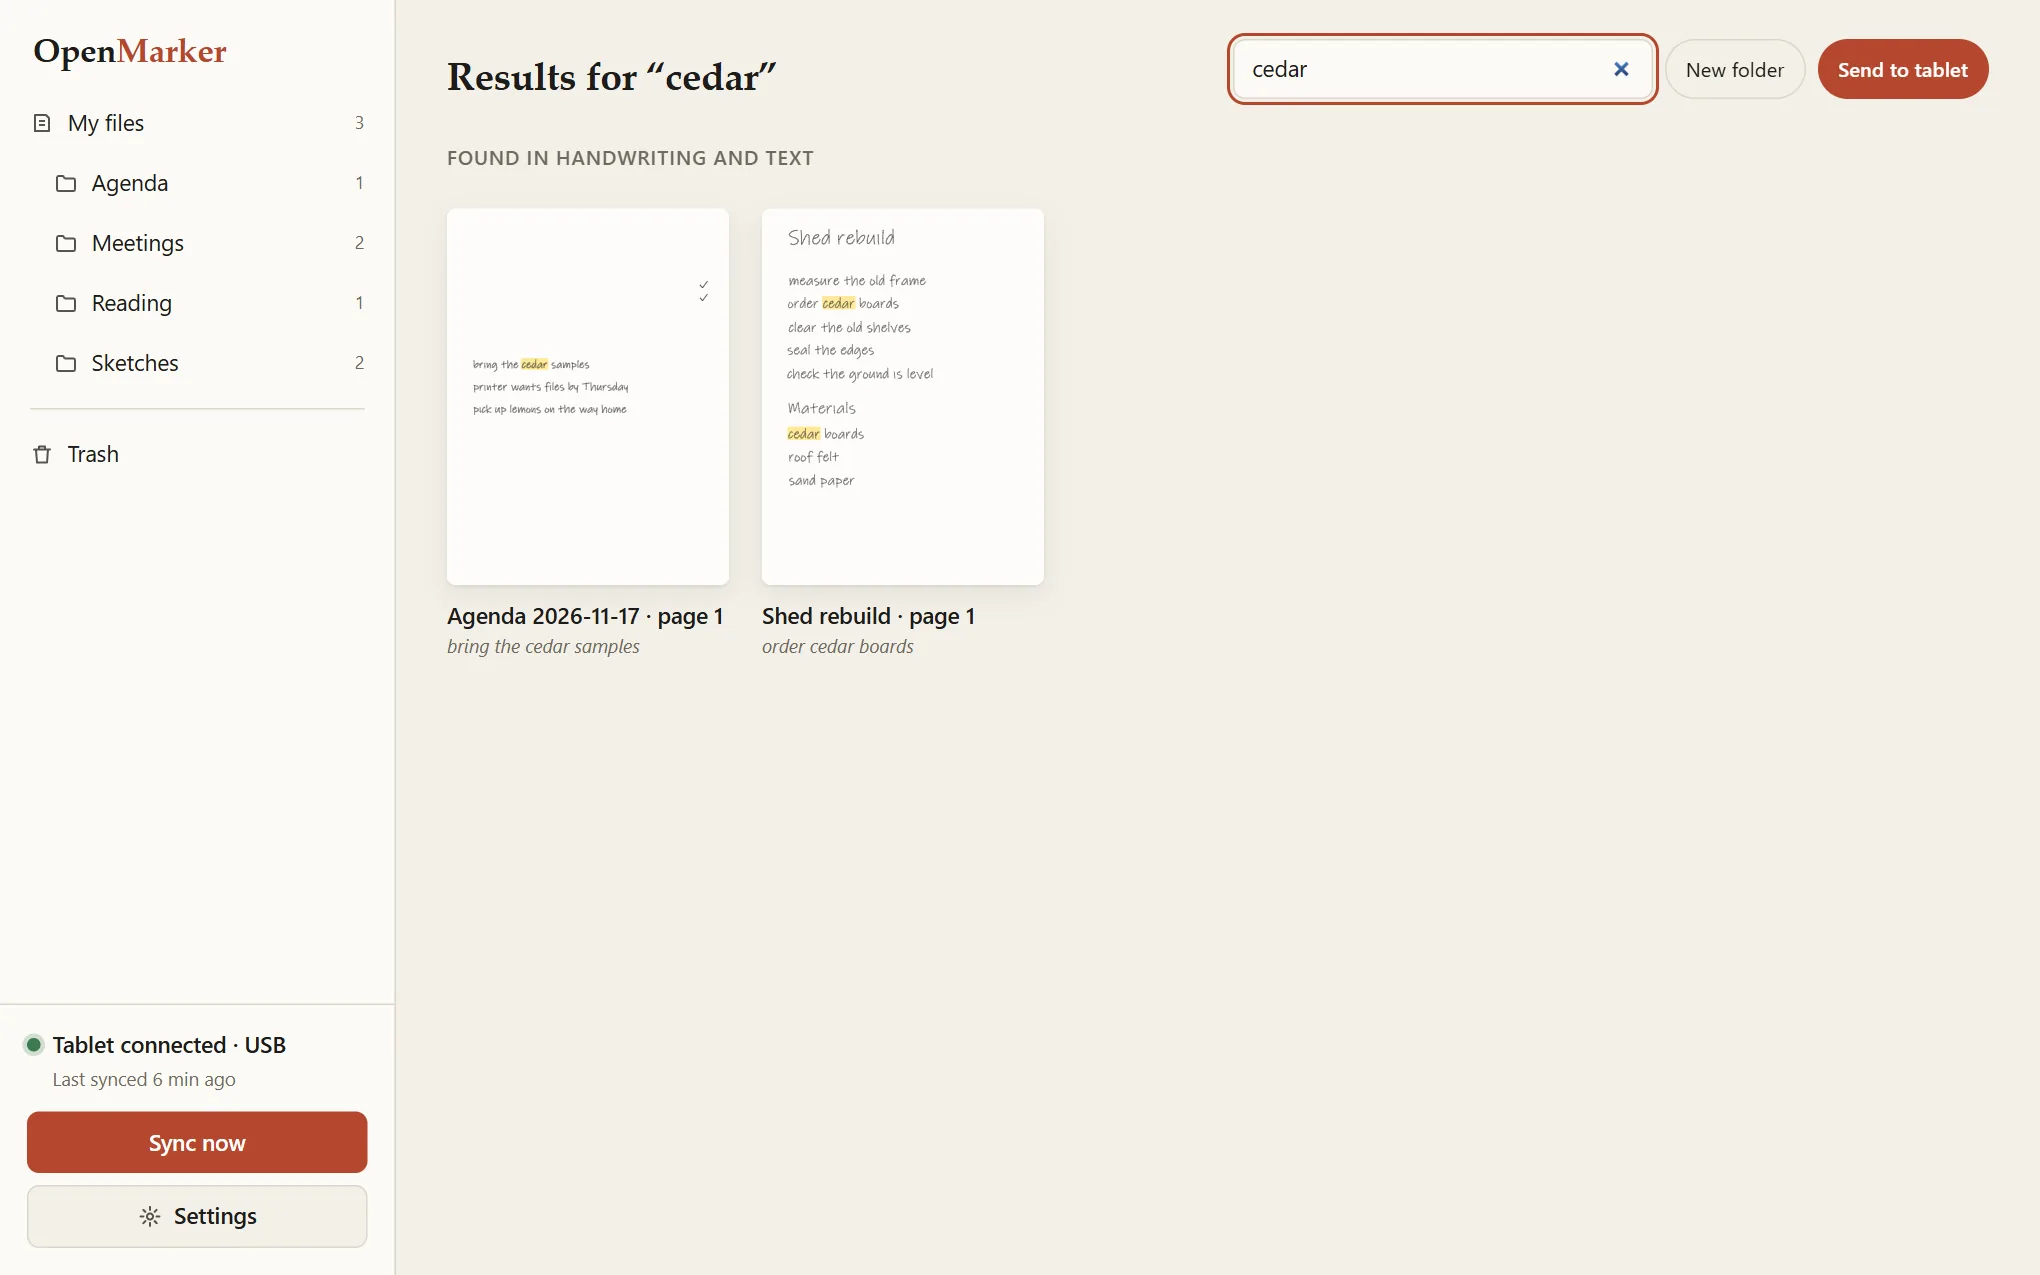
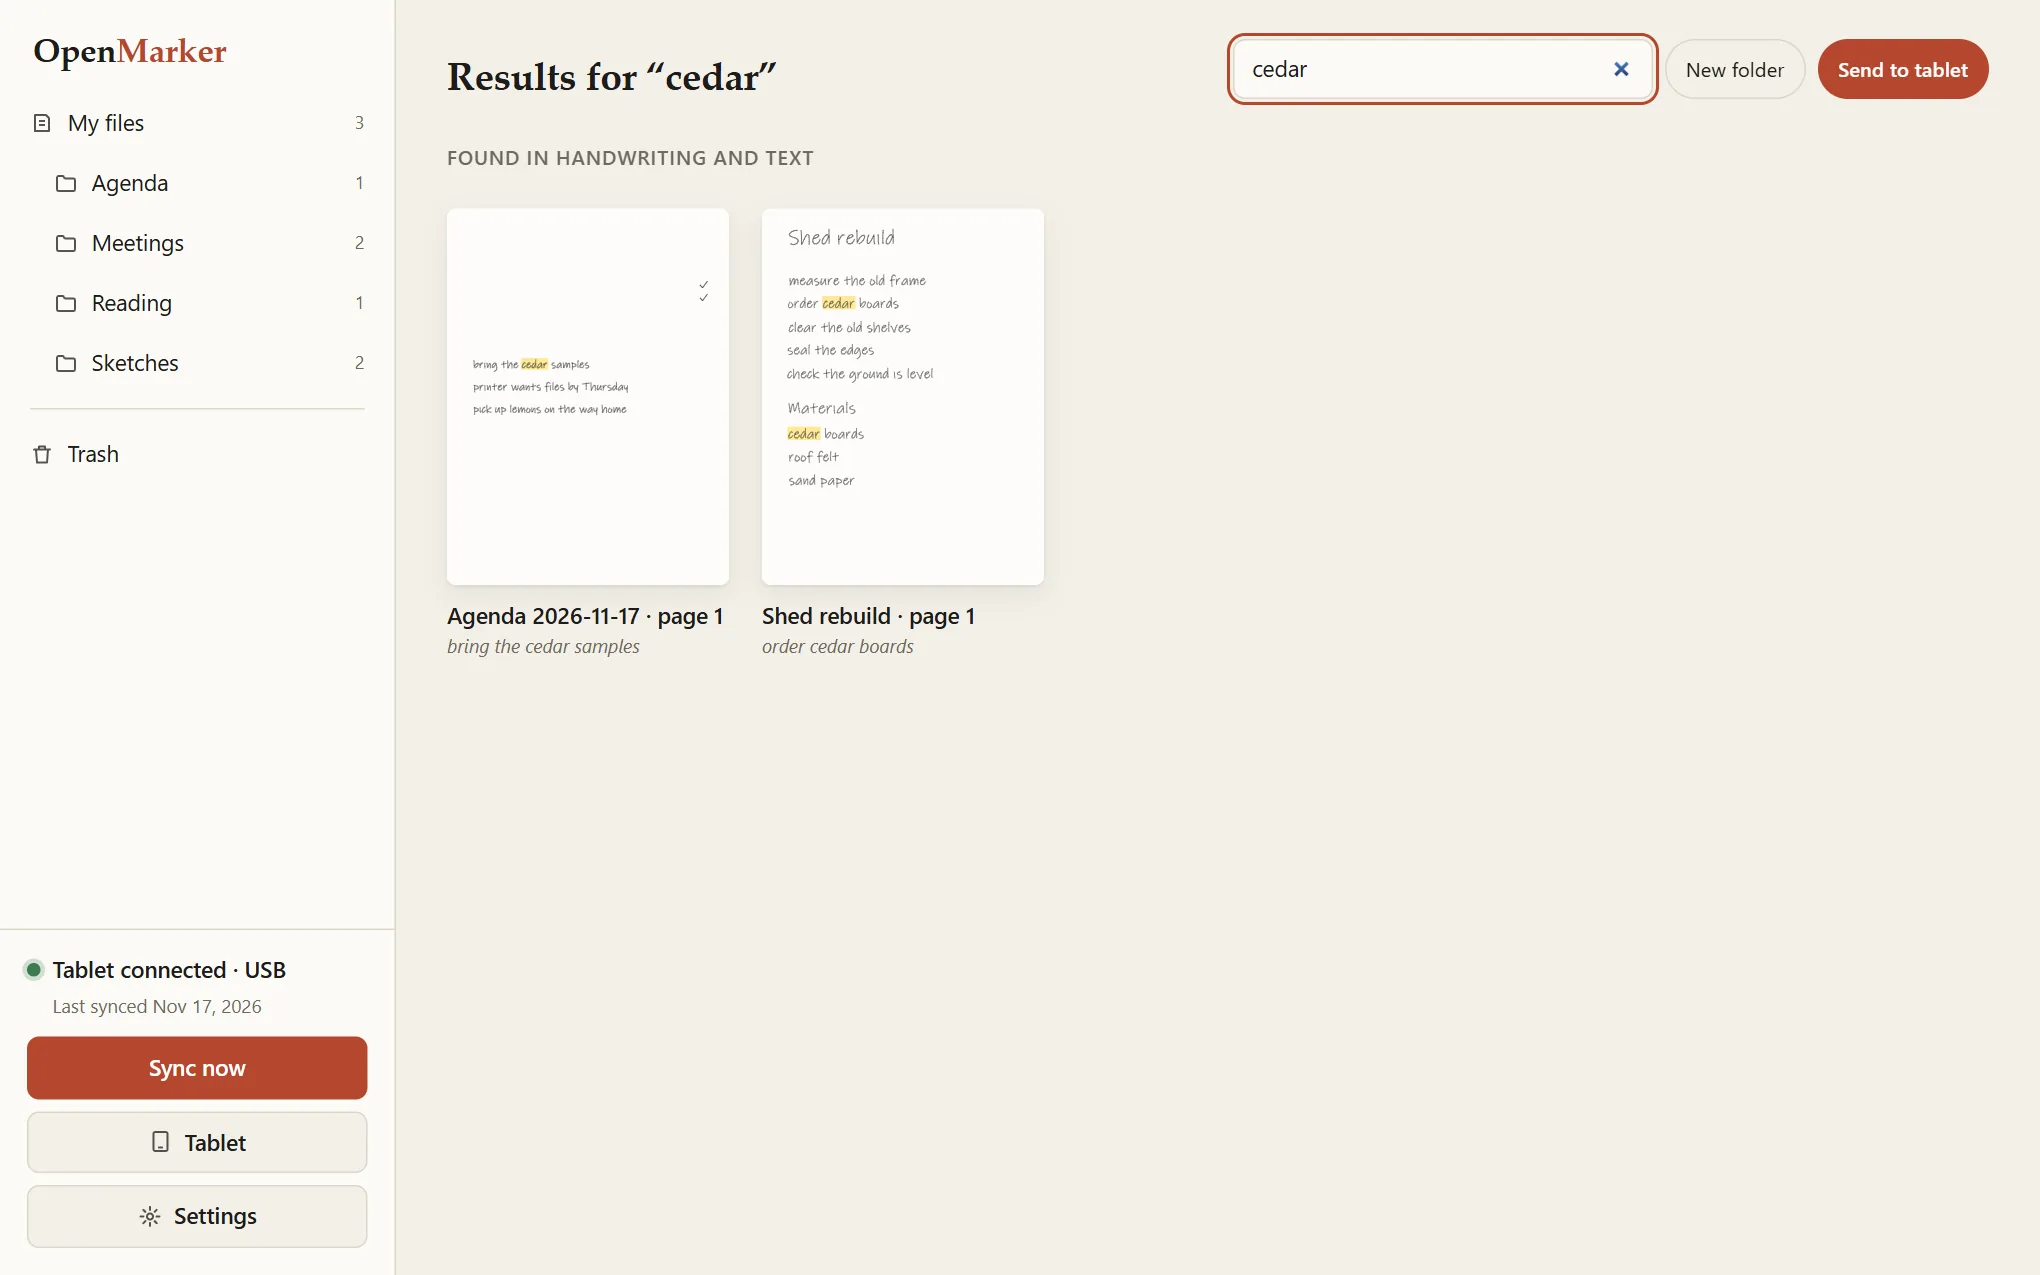
Show configuration on the site: settings, tablet, accounts, chat column
A new Configuration part on the site covers the Settings sheet with the
sync timing options, the Tablet sheet, accounts and sign-in, with new
screenshots. The chat picture now shows the column beside the library,
and the older screenshots are retaken with the current sidebar. All
screenshots use the made-up sample library.

The page no longer pops up a 'Sign in first.' note under the sign-in
sheet, which already says so.

Changed region(s): [[0.0, 0.7341, 0.1853, 0.9176]]

diff --git a/docs/index.html b/docs/index.html
@@ -212,6 +212,7 @@
         <li><a href="#ai">AI</a></li>
         <li><a href="#install">Install</a></li>
         <li><a href="#device">Set up your tablet</a></li>
+        <li><a href="#configure">Settings</a></li>
         <li><a href="#reference">Reference</a></li>
         <li><a href="#faq">Help</a></li>
         <li><a class="gh" href="https://github.com/MuchDevSuchCode/OpenMarker">GitHub</a></li>
@@ -314,6 +315,16 @@
           <svg viewBox="0 0 24 24" fill="none" stroke="currentColor" stroke-width="1.8" stroke-linecap="round" stroke-linejoin="round" aria-hidden="true"><path d="M12 3l1.9 5.1L19 10l-5.1 1.9L12 17l-1.9-5.1L5 10l5.1-1.9z"/><path d="M19 15l.8 2.2L22 18l-2.2.8L19 21l-.8-2.2L16 18l2.2-.8z"/></svg>
           <h3>AI, if you want it</h3>
           <p>Off by default. With your own API key: a chat about your notes, summaries, better handwriting to text, and more.</p>
+        </li>
+        <li>
+          <svg viewBox="0 0 24 24" fill="none" stroke="currentColor" stroke-width="1.8" stroke-linecap="round" stroke-linejoin="round" aria-hidden="true"><circle cx="9" cy="8" r="3.5"/><path d="M2.5 20a6.5 6.5 0 0 1 13 0"/><path d="M16 4.8a3.5 3.5 0 0 1 0 6.4"/><path d="M18.5 14.5A6.500 6.500 0 0 1 21.500 20"/></svg>
+          <h3>Accounts, if you share it</h3>
+          <p>Optional sign-in. Each person gets their own tablet, library and settings, and the app can then be reached through a tunnel.</p>
+        </li>
+        <li>
+          <svg viewBox="0 0 24 24" fill="none" stroke="currentColor" stroke-width="1.8" stroke-linecap="round" stroke-linejoin="round" aria-hidden="true"><path d="M4 6h10M18 6h2M4 12h3M11 12h9M4 18h8M16 18h4"/><circle cx="16" cy="6" r="2"/><circle cx="9" cy="12" r="2"/><circle cx="14" cy="18" r="2"/></svg>
+          <h3>Settings in the app</h3>
+          <p>Sync timing, export, AI and accounts in one sheet, and the tablet's own connection and settings in another. No file to edit.</p>
         </li>
       </ul>
     </div>
@@ -467,7 +478,7 @@
           </ul>
         </div>
         <figure class="shot">
-          <button type="button" aria-label="Enlarge screenshot: a chat about a notebook"><img src="img/chat.webp" width="2040" height="1275" loading="lazy" alt="A chat about a notebook called Shed rebuild. The question And what order did I plan to build it in is answered with a numbered list, followed by buttons for the two pages the answer came from, and Copy and Send to tablet."></button>
+          <button type="button" aria-label="Enlarge screenshot: the chat beside the library"><img src="img/chat.webp" width="2040" height="1275" loading="lazy" alt="The library with a chat column on its right, about a notebook called Shed rebuild. The question And what order did I plan to build it in is answered with a numbered list, followed by buttons for the two pages the answer came from, and Copy and Send to tablet. The column has New chat and Hide buttons."></button>
         </figure>
       </div>
 
@@ -598,27 +609,79 @@ launch          <span class="dim"># macOS or Linux: ./launch.sh</span></code></p
         </li>
       </ol>
 
-      <div class="show" style="margin-top:clamp(40px,6vw,72px)">
+      <div class="head" id="configure" style="margin-top:clamp(56px,8vw,104px)">
+        <p class="kicker">Configuration</p>
+        <h2>Change how it works, without editing a file</h2>
+        <p>Two buttons at the bottom of the sidebar: <b>Settings</b> for the app, and <b>Tablet</b> for the device.</p>
+      </div>
+
+      <div class="show">
         <div class="copy">
-          <h3>Everything in one Settings sheet</h3>
-          <p>The options that matter day to day are together in <b>Settings</b>, at the bottom of the sidebar:</p>
+          <h3>Settings: the app</h3>
+          <p>Everything about how OpenMarker behaves on this computer:</p>
           <ul>
-            <li><b>Accounts:</b> an optional sign-in. Each account is a separate person with their own tablet, library and settings, and with a sign-in in place OpenMarker can be reached from elsewhere through a tunnel such as ngrok.</li>
-          </ul>
-          <p>Everything about the device itself is separate, in <b>Tablet</b>:</p>
-          <ul>
-            <li><b>Connection:</b> the tablet's Wi-Fi address, the name it announces on your network, and setting it up again.</li>
-            <li><b>On the tablet:</b> its own name, when it sleeps and powers off, handedness and more, read from the tablet and saved back to it. Saving restarts the tablet's app.</li>
-            <li><b>Advanced:</b> shows every setting the tablet stores, as it is stored. Passwords and saved networks stay hidden.</li>
-            <li><b>Sync:</b> sync automatically in the background.</li>
+            <li><b>Sync:</b> sync automatically in the background, and how often it checks. See below.</li>
             <li><b>Agenda page:</b> the calendar to read events from.</li>
             <li><b>Markdown export:</b> the folder to write notes into, and an optional tag.</li>
             <li><b>Where things go on the tablet:</b> folders for agenda pages, AI summaries and AI answers.</li>
-            <li><b>AI:</b> off unless you switch it on and add a key; then the model, effort and other inference options.</li>
+            <li><b>AI:</b> off unless you switch it on and add a key; then the model, effort and other options.</li>
+            <li><b>Accounts:</b> an optional sign-in for more than one person.</li>
+          </ul>
+          <p><b>Sync timing and the tablet's battery.</b> With <b>Sync automatically</b> on, OpenMarker keeps one connection to the tablet open while the tablet is awake, so a change shows up within seconds. Two numbers decide how much work that is:</p>
+          <ul>
+            <li><b>Check for changes every:</b> seconds between the tablet's checks of its own files. 2 by default, 1 to 300. A longer wait is easier on the battery, and changes arrive that much later.</li>
+            <li><b>Keepalive every:</b> seconds between the small messages that keep the connection open. 10 by default, 5 to 300. A longer wait keeps the tablet's Wi-Fi quieter, and a tablet that has gone to sleep is noticed later.</li>
+          </ul>
+          <p>A change takes effect at once. When the tablet sleeps the connection ends by itself, and nothing runs until it wakes.</p>
+        </div>
+        <figure class="shot">
+          <button type="button" aria-label="Enlarge screenshot: the Settings sheet"><img src="img/settings.webp" width="2040" height="1275" loading="lazy" alt="The Settings sheet. Under Sync: a Sync automatically switch, Check for changes every 2 seconds and Keepalive every 10 seconds. Below that, the calendar for the agenda page and the folder and tag for Markdown export."></button>
+        </figure>
+      </div>
+
+      <div class="show flip">
+        <div class="copy">
+          <h3>Tablet: the device</h3>
+          <p>Everything about the tablet itself is in its own sheet:</p>
+          <ul>
+            <li><b>Connection:</b> the tablet's Wi-Fi address, the name it announces on your network, and setting it up again.</li>
+            <li><b>On the tablet:</b> the settings the tablet keeps in its own settings file, read from it while it is connected and saved back to it. Which ones appear depends on the tablet: it only writes down a setting once it has been changed from its default.</li>
+            <li><b>Advanced:</b> adds every other setting the tablet stores, as it is stored. Passwords, sign-in details and saved networks are never shown and cannot be changed here.</li>
+          </ul>
+          <p>Saving a changed setting restarts the tablet's app, which takes a few seconds. The previous file is kept on the tablet as a backup.</p>
+        </div>
+        <figure class="shot">
+          <button type="button" aria-label="Enlarge screenshot: the Tablet sheet"><img src="img/tablet.webp" width="2040" height="1275" loading="lazy" alt="The Tablet sheet, showing the tablet connected over USB. Under Connection: the Wi-Fi address, the tablet name and a link to set the tablet up again. Under On the tablet: the device name and a USB web interface switch. Under Advanced: a Show advanced settings switch, off."></button>
+          <figcaption>The Tablet sheet: how to reach the device, and what is kept on it.</figcaption>
+        </figure>
+      </div>
+
+      <div class="show">
+        <div class="copy">
+          <h3>Accounts, for more than one person</h3>
+          <p>Accounts are off until you add one, under <b>Settings › Accounts</b>. From then on a browser has to sign in.</p>
+          <ul>
+            <li>Each account is a separate person with their own tablet, library, version history and settings.</li>
+            <li>The first account is the administrator, and keeps the library that was already there. Only an administrator can add or remove accounts, set someone's password, quit OpenMarker, or choose a folder on this computer.</li>
+            <li>Passwords have at least 10 characters and are stored only as a salted hash. Repeated wrong guesses are slowed down.</li>
+            <li>Forgot a password? On the computer itself, <code>launch password &lt;name&gt;</code> sets a new one.</li>
           </ul>
         </div>
         <figure class="shot">
-          <button type="button" aria-label="Enlarge screenshot: the Settings sheet"><img src="img/settings.webp" width="2040" height="1275" loading="lazy" alt="The Settings sheet, with sections for Connection, Sync, Agenda page and Markdown export, and a Save button."></button>
+          <button type="button" aria-label="Enlarge screenshot: accounts in Settings"><img src="img/accounts.webp" width="2040" height="1275" loading="lazy" alt="The Accounts part of the Settings sheet: Signed in as Ada, Administrator, with Change password and Sign out; a second account, Grace, with Set password and Remove; and Add an account."></button>
+          <figcaption>Accounts, at the bottom of Settings.</figcaption>
+        </figure>
+      </div>
+
+      <div class="show flip">
+        <div class="copy">
+          <h3>Sign in, from here or from elsewhere</h3>
+          <p>With accounts in place, nothing is shown until a browser has signed in. It stays signed in for 30 days, or until you sign out.</p>
+          <p>OpenMarker then also answers through a tunnel, for example <code>ngrok http 8737</code>, which gives it an HTTPS address you can open from anywhere. Without accounts it only ever answers this computer.</p>
+        </div>
+        <figure class="shot">
+          <button type="button" aria-label="Enlarge screenshot: the sign-in sheet"><img src="img/signin.webp" width="2040" height="1275" loading="lazy" alt="A sheet titled Sign in to OpenMarker over an empty page, with Name and Password fields and a Sign in button."></button>
+          <figcaption>Nothing is shown until you have signed in.</figcaption>
         </figure>
       </div>
     </div>

diff --git a/src/openmarker/static/ui.html b/src/openmarker/static/ui.html
@@ -727,6 +727,7 @@ const trash = async item => {
 };
 const currentFolder = () => state.byId.get(state.folder)?.folder ? state.folder : "";
 const toast = message => {
+  if (message === "Sign in first.") return;  // the sign-in sheet is already up and says as much
   const box = $("toast");
   box.textContent = message;
   if (box.matches(":popover-open")) box.hidePopover();
